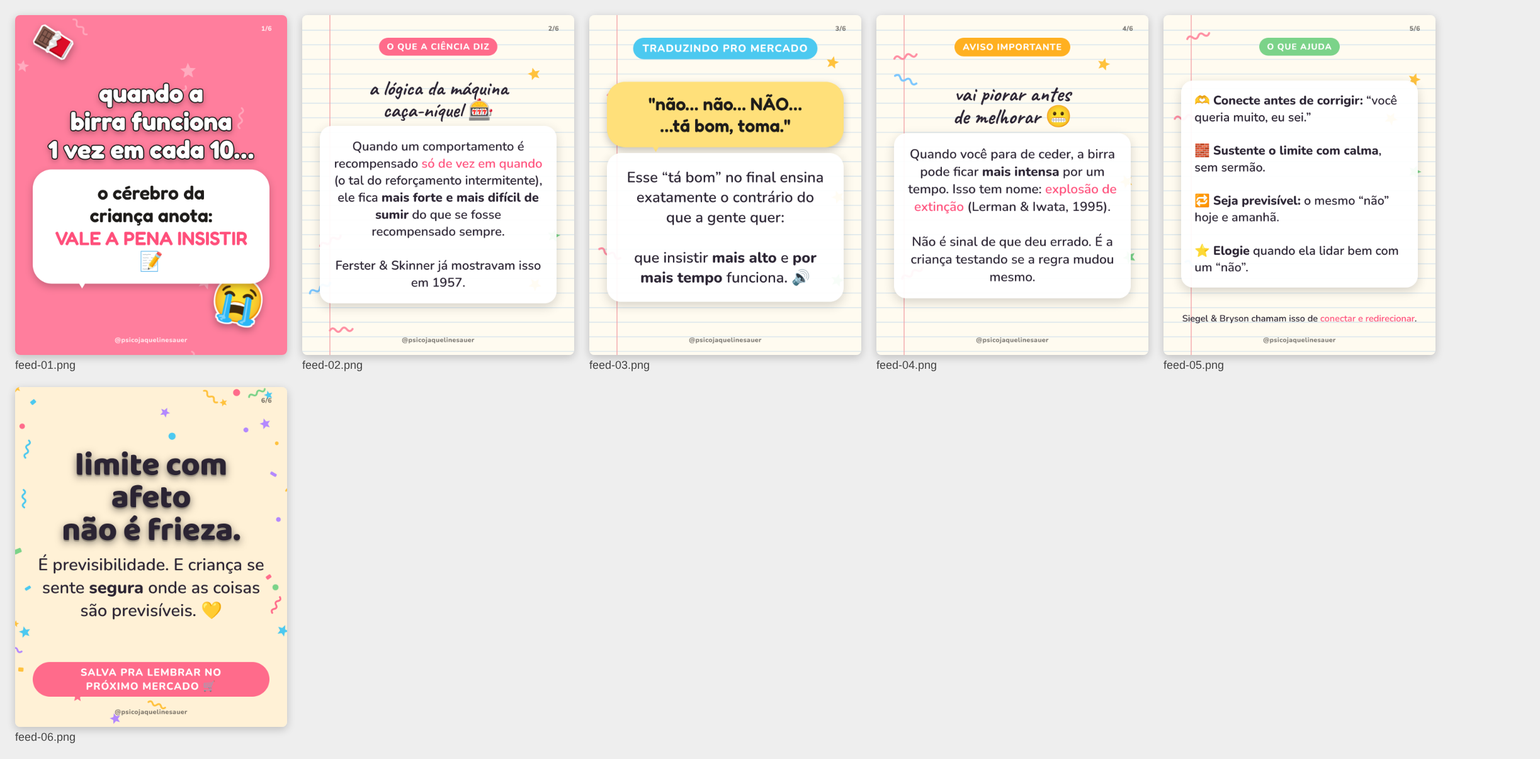
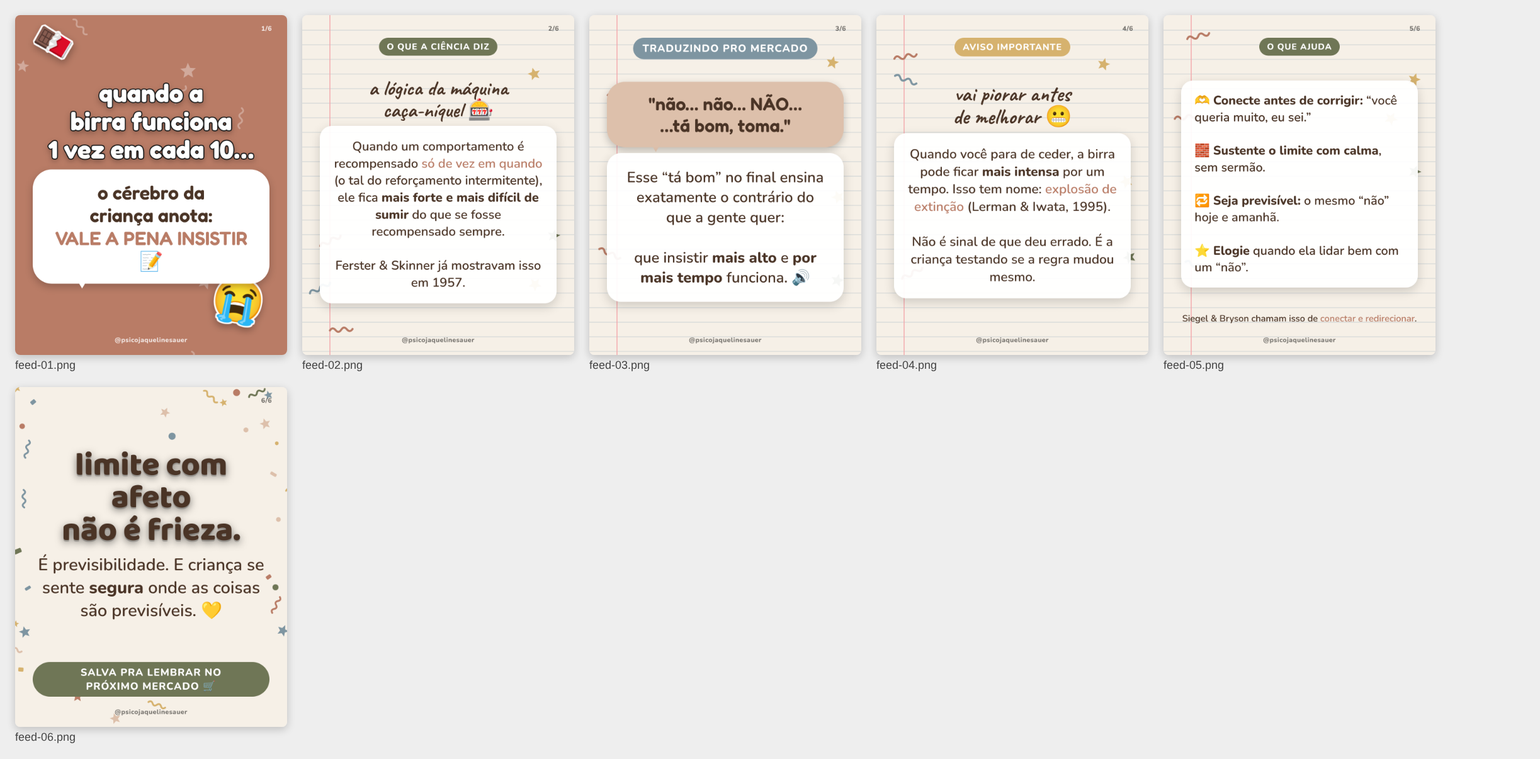
Ajusta agente: TCC + autismo, perfil só educativo, paleta Entrelaços
- Perfil: abordagem TCC, foco em crianças autistas, sem oferta de
  serviços e sem uso do título de psicóloga enquanto não houver CRP
- Checklist específico para posts sobre autismo
- Base teórica: seções de TCC infantil e TEA
- Paleta extraída do logo Entrelaços, cores por nome no post.json e
  novo fundo de madeira
- Novo post de demonstração sobre sensibilidade sensorial

Claude-Session: https://claude.ai/code/session_019fqzUuJaU6QL2Af8Ugz6rA

diff --git a/conteudo/render/render.js b/conteudo/render/render.js
@@ -23,6 +23,10 @@ const { chromium } = require('playwright');
 const RAIZ = path.resolve(__dirname, '..');
 const FONTES = path.join(RAIZ, 'assets', 'fonts');
 const MARCA = JSON.parse(fs.readFileSync(path.join(RAIZ, 'psicojaquelinesauer', 'marca.json'), 'utf8'));
+const P = MARCA.paleta;
+// aceita nome da paleta ("salvia", "rose-escuro"…) ou qualquer cor CSS
+const cor = (v) => (v && P[v]) || v;
+const cores = (l) => l && l.map(cor);
 
 const FORMATOS = {
   feed: { w: 1080, h: 1350, kMax: 1.35, safe: { t: 90, r: 70, b: 120, l: 70 } },
@@ -69,22 +73,40 @@ const rabisco = (x, y, len, cor, esp = 8) => {
 const nuvem = (x, y, s, op = 0.95) =>
   `<g fill="#fff" opacity="${op}"><ellipse cx="${x}" cy="${y}" rx="${110 * s}" ry="${48 * s}"/><circle cx="${x - 45 * s}" cy="${y - 25 * s}" r="${48 * s}"/><circle cx="${x + 30 * s}" cy="${y - 45 * s}" r="${62 * s}"/></g>`;
 
+const cores_c = (f) => cores(f.cores) || [P['rose-escuro'], P.mostarda, P['nevoa-escuro'], P['salvia-escuro'], P.rose];
+
 const FUNDOS = {
+  // parede de ripas de madeira, como a do Entrelaços
+  madeira(w, h, rnd, f) {
+    const tons = ['#6B3A1A', '#5A2F13', '#7A4419', '#4E2F17', '#64391B', '#8A5326', '#5E3518'];
+    let r = '';
+    for (let y = 0; y < h; ) {
+      const alt = 70 + Math.floor(rnd() * 60);
+      r += `<rect x="0" y="${y}" width="${w}" height="${alt}" fill="${tons[Math.floor(rnd() * tons.length)]}"/>`;
+      for (let k = 0; k < 5; k++) {
+        const yy = y + 8 + rnd() * (alt - 16);
+        r += `<path d="M0,${yy} C${w * 0.3},${yy + (rnd() - 0.5) * 14} ${w * 0.7},${yy + (rnd() - 0.5) * 14} ${w},${yy}" stroke="rgba(255,220,180,${0.04 + rnd() * 0.06})" stroke-width="${1 + rnd() * 2}" fill="none"/>`;
+      }
+      r += `<rect x="0" y="${y + alt - 3}" width="${w}" height="3" fill="rgba(20,8,0,.45)"/>`;
+      y += alt;
+    }
+    return svg(w, h, r) + `<div style="position:absolute;inset:0;background:radial-gradient(ellipse at 50% 35%,rgba(255,190,120,.28),rgba(20,8,0,.45))"></div>`;
+  },
   ceu(w, h, rnd, f) {
-    const cores = f.cores || ['#FF8FA3', '#FFC36E', '#FFE66D', '#9BE3A6', '#7CC7FF', '#B79CFF'];
+    const cores_ = cores(f.cores) || [P['rose-escuro'], P.rose, P.mostarda, P.salvia, P['nevoa-escuro'], P.nevoa];
     let arco = '';
     const cx = w * 0.15, cy = h * 1.02;
-    cores.forEach((c, i) => {
+    cores_.forEach((c, i) => {
       const r = w * 0.62 - i * 46;
       arco += `<path d="M${cx - r},${cy} A${r},${r} 0 0 1 ${cx + r},${cy}" fill="none" stroke="${c}" stroke-width="46"/>`;
     });
     let nuv = '';
     for (let i = 0; i < 5; i++) nuv += nuvem(rnd() * w, 120 + rnd() * h * 0.45, 0.6 + rnd() * 0.7, 0.8 + rnd() * 0.2);
-    return `<div style="position:absolute;inset:0;background:linear-gradient(180deg,${f.cor || '#86CFF5'} 0%,#D9F2FF 100%)"></div>` + svg(w, h, nuv + arco);
+    return `<div style="position:absolute;inset:0;background:linear-gradient(180deg,${cor(f.cor) || P['nevoa-escuro']} 0%,${P.creme} 100%)"></div>` + svg(w, h, nuv + arco);
   },
   quarto(w, h, rnd, f) {
-    const parede = f.cor || '#EADCC8';
-    const cores = ['#C9673F', '#2F4B3A', '#E3A23B', '#7A5236'];
+    const parede = cor(f.cor) || P.creme;
+    const cores = [P['rose-escuro'], P['salvia-escuro'], P.mostarda, P['nevoa-escuro']];
     let pontos = '';
     const limite = h * 0.7;
     for (let i = 0; i < 900; i++)
@@ -92,14 +114,14 @@ const FUNDOS = {
     return (
       `<div style="position:absolute;inset:0;background:${parede}"></div>` +
       svg(w, h, `<g>${pontos}</g>`) +
-      `<div style="position:absolute;left:0;right:0;top:70%;height:9%;background:#6E7B62"></div>` +
-      `<div style="position:absolute;left:0;right:0;top:79%;bottom:0;background:linear-gradient(#CDB79A,#B79E80)"></div>` +
-      `<div style="position:absolute;left:18%;right:18%;bottom:4%;height:11%;border-radius:50%;background:#E9DDC9;opacity:.85"></div>` +
+      `<div style="position:absolute;left:0;right:0;top:70%;height:9%;background:${P.salvia}"></div>` +
+      `<div style="position:absolute;left:0;right:0;top:79%;bottom:0;background:repeating-linear-gradient(90deg,${P.caramelo} 0 180px,#A86737 180px 184px),${P.caramelo}"></div>` +
+      `<div style="position:absolute;left:18%;right:18%;bottom:4%;height:11%;border-radius:50%;background:${P.areia};opacity:.9"></div>` +
       `<div style="position:absolute;inset:0;background:radial-gradient(ellipse at 50% 40%,rgba(255,240,210,.25),rgba(40,25,10,.35))"></div>`
     );
   },
   confete(w, h, rnd, f) {
-    const cores = f.cores || ['#FF6B8B', '#FFC23D', '#4CC9F0', '#7BD389', '#B388FF'];
+    const cores = cores_c(f);
     let c = '';
     for (let i = 0; i < 90; i++) {
       const x = rnd() * w, y = rnd() * h, cor = cores[i % cores.length], g = rnd() * 360;
@@ -111,7 +133,7 @@ const FUNDOS = {
       else if (t === 2) c += estrela(x, y, 14 + rnd() * 12, cor, g);
       else c += `<g transform="rotate(${g} ${x} ${y})">${rabisco(x, y, 70, cor, 7)}</g>`;
     }
-    return `<div style="position:absolute;inset:0;background:${f.cor || '#FFF1D6'}"></div>` + svg(w, h, c);
+    return `<div style="position:absolute;inset:0;background:${cor(f.cor) || P.creme}"></div>` + svg(w, h, c);
   },
   explosao(w, h, rnd, f) {
     const cx = w / 2, cy = h * 0.42;
@@ -133,18 +155,18 @@ const FUNDOS = {
       const x = rnd() * w, y = rnd() * h;
       d += i % 3 === 0 ? estrela(x, y, 22 + rnd() * 18, 'rgba(255,255,255,.18)', rnd() * 90) : `<g transform="rotate(${rnd() * 360} ${x} ${y})">${rabisco(x, y, 90, 'rgba(255,255,255,.16)', 6)}</g>`;
     }
-    return `<div style="position:absolute;inset:0;background:radial-gradient(circle at 50% 40%,${f.cor || '#3B6150'},#22392E)"></div>` + svg(w, h, d);
+    return `<div style="position:absolute;inset:0;background:radial-gradient(circle at 50% 40%,${cor(f.cor) || P['salvia-escuro']},#3E4330)"></div>` + svg(w, h, d);
   },
   papel(w, h, rnd, f) {
     let linhas = '';
-    for (let y = 60; y < h; y += 58) linhas += `<line x1="0" y1="${y}" x2="${w}" y2="${y}" stroke="#BFD7EA" stroke-width="2"/>`;
+    for (let y = 60; y < h; y += 58) linhas += `<line x1="0" y1="${y}" x2="${w}" y2="${y}" stroke="${P.nevoa}" stroke-width="2"/>`;
     let d = '';
-    const cores = ['#FF8FA3', '#FFC23D', '#7CC7FF', '#7BD389'];
+    const cores = [P['rose-escuro'], P.mostarda, P['nevoa-escuro'], P['salvia-escuro']];
     for (let i = 0; i < 6; i++) {
       const x = i % 2 ? w - 60 - rnd() * 120 : 60 + rnd() * 120, y = 80 + rnd() * (h - 160);
       d += i % 2 ? estrela(x, y, 26, cores[i % 4], rnd() * 60) : `<g transform="rotate(${rnd() * 60 - 30} ${x} ${y})">${rabisco(x - 40, y, 90, cores[i % 4], 8)}</g>`;
     }
-    return `<div style="position:absolute;inset:0;background:${f.cor || '#FFFBF0'}"></div>` + svg(w, h, linhas + `<line x1="110" y1="0" x2="110" y2="${h}" stroke="#F4A3A8" stroke-width="3"/>` + d);
+    return `<div style="position:absolute;inset:0;background:${cor(f.cor) || P.creme}"></div>` + svg(w, h, linhas + `<line x1="110" y1="0" x2="110" y2="${h}" stroke="#F4A3A8" stroke-width="3"/>` + d);
   },
   cor(w, h, rnd, f) {
     let d = '';
@@ -153,7 +175,7 @@ const FUNDOS = {
         const x = rnd() * w, y = rnd() * h;
         d += i % 2 ? estrela(x, y, 20 + rnd() * 14, 'rgba(255,255,255,.35)', rnd() * 90) : `<g transform="rotate(${rnd() * 360} ${x} ${y})">${rabisco(x, y, 80, 'rgba(255,255,255,.3)', 7)}</g>`;
       }
-    return `<div style="position:absolute;inset:0;background:${f.cor || '#FF8FA3'}"></div>` + svg(w, h, d);
+    return `<div style="position:absolute;inset:0;background:${cor(f.cor) || P.salvia}"></div>` + svg(w, h, d);
   },
 };
 
@@ -179,13 +201,13 @@ body{background:#111}
 .faixa,.meme,.amarelo,.titulo,.sub,.nota,.balao,.etiqueta{text-wrap:balance}
 mark{background:none;color:var(--destaque,${c.destaque})}
 /* faixas de papel com máquina de escrever (ref. psico.giovanavasc) */
-.faixa{font-family:Elite,'Noto Color Emoji';font-size:calc(var(--k)*var(--t,66px));line-height:1.6;color:#1E1C1A}
-.faixa span{background:var(--fundo,#FBF5E6);padding:.1em .38em;box-decoration-break:clone;-webkit-box-decoration-break:clone;box-shadow:0 6px 14px rgba(0,0,0,.18)}
+.faixa{font-family:Elite,'Noto Color Emoji';font-size:calc(var(--k)*var(--t,66px));line-height:1.6;color:${P.cacau}}
+.faixa span{background:var(--fundo,${P.creme});padding:.1em .38em;box-decoration-break:clone;-webkit-box-decoration-break:clone;box-shadow:0 6px 14px rgba(0,0,0,.18)}
 /* meme branco com contorno (ref. psicosuyanne / gabrielleiferreira.psi) */
 .meme{font-family:Fredoka,'Noto Color Emoji';font-weight:700;font-size:calc(var(--k)*var(--t,74px));line-height:1.12;color:var(--cor,#fff);
   text-shadow:0 0 1px #000,4px 0 0 #1B1B1B,-4px 0 0 #1B1B1B,0 4px 0 #1B1B1B,0 -4px 0 #1B1B1B,3px 3px 0 #1B1B1B,-3px 3px 0 #1B1B1B,3px -3px 0 #1B1B1B,-3px -3px 0 #1B1B1B,0 10px 24px rgba(0,0,0,.35)}
 /* amarelo com sombra (ref. omateuspsi) */
-.amarelo{font-family:Nunito,'Noto Color Emoji';font-weight:800;font-size:calc(var(--k)*var(--t,66px));line-height:1.18;color:var(--cor,#FFE14D);text-shadow:0 4px 0 rgba(0,0,0,.25),0 8px 26px rgba(0,0,0,.55)}
+.amarelo{font-family:Nunito,'Noto Color Emoji';font-weight:800;font-size:calc(var(--k)*var(--t,66px));line-height:1.18;color:var(--cor,#F6DA9C);text-shadow:0 4px 0 rgba(0,0,0,.25),0 8px 26px rgba(0,0,0,.55)}
 /* título de cartaz + subtítulo (ref. aprendonaterapia) */
 .titulo{font-family:Baloo,'Noto Color Emoji';font-weight:800;font-size:calc(var(--k)*var(--t,104px));line-height:1;color:var(--cor,#fff);letter-spacing:-1px;text-shadow:0 6px 0 rgba(0,0,0,.2),0 10px 30px rgba(0,0,0,.5)}
 .sub{font-family:Nunito,'Noto Color Emoji';font-weight:800;font-style:italic;font-size:calc(var(--k)*var(--t,48px));line-height:1.2;color:var(--cor,#fff);text-shadow:0 4px 18px rgba(0,0,0,.6)}
@@ -194,7 +216,7 @@ mark{background:none;color:var(--destaque,${c.destaque})}
 b,strong{font-weight:800}
 .cartao{background:var(--fundo,rgba(255,255,255,.94));border-radius:calc(var(--k)*44px);padding:calc(var(--k)*44px) calc(var(--k)*50px);box-shadow:0 14px 40px rgba(0,0,0,.16)}
 .etiqueta{font-family:Nunito,'Noto Color Emoji';font-weight:800;font-size:calc(var(--k)*var(--t,32px));letter-spacing:.06em;text-transform:uppercase;color:var(--cor,#fff);background:var(--fundo,${c.primaria});padding:.35em .9em;border-radius:999px}
-.balao{font-family:Fredoka,'Noto Color Emoji';font-weight:600;font-size:calc(var(--k)*var(--t,56px));line-height:1.2;color:var(--cor,#1E1C1A);background:var(--fundo,#fff);border-radius:calc(var(--k)*56px);padding:calc(var(--k)*34px) calc(var(--k)*46px);box-shadow:0 12px 30px rgba(0,0,0,.22)}
+.balao{font-family:Fredoka,'Noto Color Emoji';font-weight:600;font-size:calc(var(--k)*var(--t,56px));line-height:1.2;color:var(--cor,${P.cacau});background:var(--fundo,#fff);border-radius:calc(var(--k)*56px);padding:calc(var(--k)*34px) calc(var(--k)*46px);box-shadow:0 12px 30px rgba(0,0,0,.22)}
 .balao::after{content:'';position:absolute;left:18%;bottom:calc(var(--k)*-34px);border:calc(var(--k)*20px) solid transparent;border-top:calc(var(--k)*34px) solid var(--fundo,#fff)}
 .adesivos{display:flex;gap:calc(var(--k)*40px);justify-content:center;font-size:calc(var(--k)*var(--t,130px));line-height:1.15;padding-top:calc(var(--k)*20px)}
 .adesivos span{display:inline-block;font-family:'Noto Color Emoji';transform:rotate(var(--g));filter:drop-shadow(5px 0 0 #fff) drop-shadow(-5px 0 0 #fff) drop-shadow(0 5px 0 #fff) drop-shadow(0 -5px 0 #fff) drop-shadow(0 12px 14px rgba(0,0,0,.28))}
@@ -208,9 +230,9 @@ b,strong{font-weight:800}
 function bloco(b) {
   const vars = [];
   if (b.tamanho) vars.push(`--t:${b.tamanho}px`);
-  if (b.cor) vars.push(`--cor:${b.cor}`);
-  if (b.fundo) vars.push(`--fundo:${b.fundo}`);
-  if (b.destaque) vars.push(`--destaque:${b.destaque}`);
+  if (b.cor) vars.push(`--cor:${cor(b.cor)}`);
+  if (b.fundo) vars.push(`--fundo:${cor(b.fundo)}`);
+  if (b.destaque) vars.push(`--destaque:${cor(b.destaque)}`);
   if (b.giro) vars.push(`transform:rotate(${b.giro}deg)`);
   if (b.largura) vars.push(`max-width:${b.largura}%`);
   const cls = ['b', b.estilo || 'texto'];
@@ -255,7 +277,7 @@ function htmlSlide(slide, fmt, post, dirPost, i, total) {
     })
     .join('');
 
-  const corAss = slide.cor_assinatura || (['explosao', 'lousa', 'cor'].includes(f.tipo) || slide.imagem ? 'rgba(255,255,255,.85)' : 'rgba(30,28,26,.6)');
+  const corAss = slide.cor_assinatura || (['explosao', 'lousa', 'cor', 'madeira'].includes(f.tipo) || slide.imagem ? 'rgba(255,255,255,.85)' : 'rgba(30,28,26,.6)');
   const assBottom = fmt === 'stories' ? safe.b - 70 : 42;
   const contador = post.tipo === 'carrossel' && slide.mostrar_contador !== false && total > 1
     ? `<div class="assinatura" style="top:36px;bottom:auto;text-align:right;padding-right:60px;color:${corAss}">${i + 1}/${total}</div>` : '';

diff --git a/conteudo/psicojaquelinesauer/PERFIL.md b/conteudo/psicojaquelinesauer/PERFIL.md
@@ -1,28 +1,37 @@
 # Perfil — @psicojaquelinesauer
 
-> Itens marcados com **[CONFIRMAR]** não puderam ser verificados (o Instagram não é acessível a partir deste ambiente). Preencha assim que possível: eles mudam o tom e as regras.
+> Dados confirmados pela usuária em 02/11/2026. Atualize este arquivo quando algo mudar (ex.: saiu o CRP).
 
 ## Quem é
 
-- **Nome**: Jaqueline Sauer, psicóloga
-- **CRP**: [CONFIRMAR] (o Código de Ética exige nome completo e CRP na divulgação de serviços. Deixar na bio e em posts de divulgação.)
-- **Área**: psicologia infantil (inferido das referências escolhidas) [CONFIRMAR faixa etária: primeira infância? escolar? adolescentes?]
-- **Abordagem teórica**: [CONFIRMAR: TCC? Análise do Comportamento/ABA? Psicanálise? Ludoterapia?]. **Importa**: o conteúdo não pode contradizer a abordagem dela. Até confirmar, o agente usa referências amplamente aceitas (desenvolvimento, regulação emocional, comportamento) e evita posicionamentos que dependam de abordagem específica.
-- **Atendimento**: [CONFIRMAR presencial/online, cidade]
-- **Cores/identidade visual**: [CONFIRMAR]. Paleta provisória em `marca.json`.
+- **Nome**: Jaqueline Sauer
+- **Abordagem**: Terapia Cognitivo-Comportamental (TCC)
+- **Foco**: crianças, principalmente **no espectro autista (TEA)**. Por isso, boa parte das pautas deve tratar de autismo, neurodiversidade e famílias atípicas, sem deixar de lado temas gerais de parentalidade.
+- **Espaço**: Entrelaços Espaço Terapêutico (a identidade visual do perfil segue o logo do Entrelaços; ver `marca.json`)
+- **Objetivo do perfil**: **apenas conteúdo educativo** (psicoeducação, dicas, curiosidades). **Não há oferta de serviços**: nada de "agende sua consulta", preço, link de agendamento ou chamada para atendimento.
+- **CRP**: ainda não há registro.
+
+### ⚠ Uso do título "psicóloga" (enquanto não houver CRP)
+
+No Brasil, usar publicamente o título de psicólogo(a) e exercer a profissão exige registro ativo no Conselho Regional de Psicologia (Lei nº 5.766/1971). Enquanto não houver CRP:
+
+- **Não escrever** "sou psicóloga", "psicóloga infantil", "meus pacientes", "no consultório eu atendo", "na sessão de hoje" nem nada que apresente a Jaqueline como psicóloga em atuação.
+- **Pode**: falar **sobre** psicologia ("a psicologia explica", "a TCC mostra", "pesquisas dizem"), em primeira pessoa como alguém que estuda e trabalha com crianças ("trabalho com crianças", "estudo isso há anos"), e recomendar procurar profissionais ("vale buscar uma psicóloga").
+- Formatos de meme das referências que dependem do título ("Sou psicóloga infantil, mas…") são adaptados: "Trabalho com crianças, mas…", "A psicologia infantil não vai…".
+- Quando o CRP sair, atualizar esta seção. Aí os formatos com o título ficam liberados, mas o art. 20 do Código de Ética passa a valer para divulgação (nome + CRP).
 
 ## Público
 
-Mães, pais e cuidadores de crianças (principalmente mães de 25 a 45 anos), além de professores e colegas de profissão. Gente cansada, que ri da própria rotina e quer orientação prática sem culpa.
+Mães, pais e cuidadores de crianças, com destaque para **famílias atípicas** (crianças autistas), além de professores, mediadores escolares e estudantes/profissionais da área. Gente cansada, que ri da própria rotina e quer orientação prática sem culpa.
 
 ## Tom de voz
 
 - **Humor de identificação**: a piada é sobre situações que toda família vive (birra no mercado, hora de dormir, tela, UNO). O riso vem antes do conteúdo.
-- **Lado criança**: brincadeira, brinquedo, desenho animado, cor. A psicóloga é alguém que brinca, e isso é técnica.
+- **Lado criança**: brincadeira, brinquedo, desenho animado, cor. Brincar é coisa séria: é a linguagem da criança.
 - **Acolhedor, nunca culpabilizante**: "a gente", "acontece", "sem julgamentos". Nada de "você está errando".
 - **Leve na arte, sólida na legenda**: a arte é meme; a legenda explica a teoria em linguagem simples, cita o autor e termina com algo prático.
 - Linguagem informal brasileira ("tá", "pra", "né"), sem exagero de gíria. Emojis com moderação.
-- Feminino na primeira pessoa ("sou psicóloga", "pronta").
+- Feminino na primeira pessoa ("pronta", "cansada"), **sem** se apresentar como psicóloga (ver acima).
 
 ## Checklist ético (CFP) — conferir em TODO post
 
@@ -36,8 +45,20 @@ Baseado no Código de Ética Profissional do Psicólogo (Resolução CFP nº 010
 - [ ] O humor não ridiculariza criança, família, colega, abordagem nem condição (autismo, TDAH etc.).
 - [ ] Informação técnica correta e com fonte (ver `BASE_TEORICA.md`).
 - [ ] Quando o tema pede, a legenda sugere procurar avaliação profissional em vez de resolver tudo pelo post.
-- [ ] Posts de divulgação de serviço: nome completo e CRP visíveis (bio ou legenda).
+- [ ] Não oferece serviço, consulta, avaliação nem agendamento (o perfil é só educativo).
+- [ ] Não apresenta a Jaqueline como psicóloga enquanto não houver CRP.
+
+## Checklist extra para posts sobre autismo (TEA)
+
+- [ ] Autismo é tratado como **condição do neurodesenvolvimento**, não como doença. Nunca usar "sofre de autismo", "cura", "portador", "doente".
+- [ ] Linguagem: "criança autista" ou "criança no espectro"/"com TEA". Muitas pessoas autistas preferem "autista" (Kenny et al., 2016); evitar "portador de autismo".
+- [ ] O humor é sobre a **rotina e os desafios das famílias** e sobre como o mundo não é adaptado, **nunca** sobre comportamentos da criança autista (estereotipias, falas, crises).
+- [ ] Crise (meltdown) é tratada com seriedade, nunca como piada ou "birra".
+- [ ] Não sugerir que tal comportamento "é sinal de autismo" de forma a induzir autodiagnóstico; orientar a buscar avaliação com equipe especializada.
+- [ ] Evitar a peça de quebra-cabeça 🧩 como símbolo do autismo: muitos autistas a rejeitam por associá-la a algo "incompleto" ou "um enigma" (Gernsbacher et al., 2018). Preferir o símbolo do infinito ♾ ou cores neutras.
+- [ ] Não fazer julgamento entre abordagens de intervenção (ABA, TCC, Denver, etc.) nem prometer resultados de intervenção.
+- [ ] Respeitar a diversidade dentro do espectro: "cada criança autista é única".
 
 ## Direitos de imagem
 
-Frames de filmes Disney/Pixar são protegidos por direito autoral. O uso em memes é comum, mas num perfil profissional existe risco (denúncia, remoção do post). Decisão da Jaqueline. Alternativas que o agente sempre oferece: fundos ilustrados próprios + emojis-adesivo (o padrão dos posts gerados) ou fotos próprias do consultório e brinquedos.
+Frames de filmes Disney/Pixar são protegidos por direito autoral. O uso em memes é comum, mas num perfil profissional existe risco (denúncia, remoção do post). Decisão da Jaqueline. Alternativas que o agente sempre oferece: fundos ilustrados próprios + emojis-adesivo (o padrão dos posts gerados) ou fotos próprias do Entrelaços e de brinquedos (sem crianças identificáveis).

diff --git a/conteudo/psicojaquelinesauer/ESTILO.md b/conteudo/psicojaquelinesauer/ESTILO.md
@@ -25,7 +25,7 @@ A análise abaixo vem dos 5 prints enviados (o Instagram não abre neste ambient
 
 ## Formatos de meme reutilizáveis (troque o conteúdo, mantenha a estrutura)
 
-- **"Sou psicóloga infantil, mas…"** → quebra de expectativa sobre o que a terapia faz.
+- **"Trabalho com crianças, mas…"** → quebra de expectativa sobre o que a terapia faz ("Sou psicóloga infantil, mas…" só depois do CRP; ver `PERFIL.md`).
 - **"Imagina achar que…"** → ironia com um mito sobre terapia infantil.
 - **"Eu também faria X se… / imagina uma criança"** → empatia com a lógica do comportamento infantil.
 - **"[modo épico] / (contexto banal entre parênteses)"** → exagero dramático de situação de consultório.
@@ -34,9 +34,34 @@ A análise abaixo vem dos 5 prints enviados (o Instagram não abre neste ambient
 - **"Personagem X explicando Y"** → personagem Disney/Pixar como metáfora de um conceito (Divertida Mente = emoções; Marlin de Procurando Nemo = superproteção).
 - **POV / "quando…"** → cenas do dia a dia de pais.
 
+## Pilares de conteúdo
+
+| Pilar | Peso | Exemplos |
+|---|---|---|
+| Autismo (TEA) | ~40% | sensorial, rotina e previsibilidade, comunicação, crise × birra, escola e inclusão, irmãos, famílias atípicas, mitos, direitos (Abril Azul) |
+| TCC explicada para pais | ~25% | pensamento → emoção → comportamento, termômetro das emoções, escadinha do medo, ansiedade infantil |
+| Parentalidade e comportamento | ~25% | birra, limites, sono, telas, frustração, elogio |
+| Bastidores e interação | ~10% | stories com enquete/caixinha, brinquedos e jogos, o lúdico |
+
+## Identidade visual (Entrelaços)
+
+A paleta segue o logo do **Entrelaços Espaço Terapêutico** e a parede de madeira do espaço. Tons suaves e acolhedores; a cor viva vem dos emojis-adesivo e das imagens de filme, não do fundo.
+
+| Nome no post.json | Cor | Uso |
+|---|---|---|
+| `salvia` / `salvia-escuro` | #A9AC8D / #6F7656 | fundos, etiquetas, faixa de parede |
+| `rose` / `rose-escuro` | #DDC0AB / #B97C66 | destaques, capas, faixas de papel |
+| `nevoa` / `nevoa-escuro` | #C6CED2 / #7E95A1 | céu, linhas do caderno, etiquetas |
+| `areia` / `creme` | #DAC9B9 / #F6F0E7 | fundos claros, faixas |
+| `mostarda` | #D6B26E | acento (estrelas, etiquetas de alerta) |
+| `caramelo` / `madeira` | #BE7848 / #6B3A1A | piso, fundo `madeira` |
+| `cacau` | #4A3426 | texto escuro (no lugar do preto) |
+
+Em `cor`, `fundo` e `destaque` dos blocos e em `fundo.cor` dá para usar o nome (ex.: `"fundo": "rose"`) ou qualquer cor hexadecimal.
+
 ## Visual
 
-- **Cores**: vivas e de brinquedoteca (rosa, amarelo, azul-céu, verde, lilás) ou terrosas aconchegantes (consultório). Evitar visual corporativo ou clínico frio.
+- **Cores**: paleta Entrelaços acima. Fundo `explosao` fica liberado como exceção para piadas épicas.
 - **Imagens**: cenas de filmes Disney/Pixar (fornecidas pela usuária), fotos do consultório e brinquedos, ou os fundos ilustrados do renderizador.
 - **Emojis como adesivos** (contorno branco) fazem o papel dos brinquedos recortados do @omateuspsi.
 - **Tipografia**: arredondada e divertida (Fredoka, Baloo), máquina de escrever para o estilo faixa (Special Elite), manuscrita para comentários (Caveat), Nunito para textos de carrossel.
@@ -45,7 +70,7 @@ A análise abaixo vem dos 5 prints enviados (o Instagram não abre neste ambient
 `faixa` · `meme` · `amarelo` · `titulo` · `sub` · `nota` · `balao` · `etiqueta` · `texto` (com `cartao: true` para o fundo branco arredondado) · `adesivos` · `espaco`
 
 ### Fundos ilustrados disponíveis
-`quarto` (consultório com parede estampada) · `ceu` (nuvens + arco-íris) · `confete` · `explosao` (épico/dramático) · `lousa` · `papel` (caderno, ideal para carrossel) · `cor` (cor sólida com rabiscos)
+`madeira` (parede de ripas do Entrelaços) · `quarto` (parede estampada + piso de madeira) · `ceu` (nuvens + arco-íris) · `confete` · `explosao` (épico/dramático) · `lousa` · `papel` (caderno, ideal para carrossel) · `cor` (cor sólida com rabiscos)
 
 ## Regras de formato
 
@@ -60,4 +85,4 @@ A análise abaixo vem dos 5 prints enviados (o Instagram não abre neste ambient
 
 - 2 a 3 posts de feed (alternar meme único e carrossel educativo)
 - 3 a 5 sequências de stories avulsos (pelo menos 1 de interação)
-- Datas: Dia das Crianças (12/10), volta às aulas (fev/ago), férias, Halloween, Natal (presentes e telas), Dia das Mães/Pais, Abril Azul (conscientização do autismo, com muito cuidado e sem humor sobre a condição), Setembro Amarelo (sem humor; tom acolhedor).
+- Datas: Dia das Crianças (12/10), volta às aulas (fev/ago), férias, Halloween, Natal (presentes e telas), Dia das Mães/Pais, **Abril Azul e 2 de abril** (Dia Mundial de Conscientização do Autismo: data central do perfil; planejar série de posts com antecedência, tom educativo, humor só sobre o mundo não adaptado), 18 de junho (Dia do Orgulho Autista), Setembro Amarelo (sem humor; tom acolhedor).

diff --git a/conteudo/psicojaquelinesauer/BASE_TEORICA.md b/conteudo/psicojaquelinesauer/BASE_TEORICA.md
@@ -6,6 +6,34 @@ Legenda dos marcadores: ✅ referência clássica e consolidada · ⚠ usar c
 
 ---
 
+## TCC para crianças (abordagem da Jaqueline)
+
+| Conceito | Ideia para post | Referência |
+|---|---|---|
+| ✅ Modelo cognitivo: pensamento → emoção → comportamento | "o que você pensou quando isso aconteceu?" explicado com personagens | Beck, J. S. (2021). *Terapia Cognitivo-Comportamental: teoria e prática* (3ª ed.). Artmed. |
+| ✅ TCC adaptada à infância (linguagem lúdica, pais envolvidos) | por que a TCC com criança tem jogo, desenho e tarefa para casa | Friedberg, R. D., & McClure, J. M. (2004). *A prática clínica de terapia cognitiva com crianças e adolescentes*. Artmed. |
+| ✅ Programa Coping Cat para ansiedade infantil | "o gato que enfrenta os medos": reconhecer o corpo, os pensamentos, agir, se recompensar | Kendall, P. C. (1994). Treating anxiety disorders in children. *Journal of Consulting and Clinical Psychology*, 62(1), 100–110. |
+| ✅ Exposição gradual aos medos | "a escadinha do medo" | Kendall (1994) acima; Friedberg & McClure (2004). |
+| ✅ Psicoeducação emocional com recursos visuais (termômetro das emoções, semáforo) | termômetro da raiva em casa | Friedberg & McClure (2004). |
+
+## Autismo (TEA)
+
+| Conceito | Ideia para post | Referência |
+|---|---|---|
+| ✅ Critérios diagnósticos (comunicação/interação social + padrões restritos e repetitivos, incluindo critério B4 sensorial); níveis de suporte | "autismo não tem cara"; "nível de suporte não é nível de inteligência" | American Psychiatric Association (2022). *DSM-5-TR*. |
+| ✅ Diferenças de processamento sensorial | barulho, etiqueta de roupa, texturas de comida | Ben-Sasson, A. et al. (2009). *Journal of Autism and Developmental Disorders*, 39(1), 1–11. |
+| ✅ TCC adaptada para ansiedade em crianças autistas | ansiedade é comum no espectro e tem tratamento com evidência | Wood, J. J. et al. (2009). *Journal of Child Psychology and Psychiatry*, 50(3), 224–234. · Sofronoff, K., Attwood, T., & Hinton, S. (2005). *Journal of Child Psychology and Psychiatry*, 46(11), 1152–1160. · Reaven, J. et al. (2012). *Journal of Child Psychology and Psychiatry*, 53(4), 410–419 (programa *Facing Your Fears*). |
+| ✅ Práticas baseadas em evidência (suportes visuais, antecipação, modelação, histórias sociais etc.) | rotina visual em casa; avisar antes das transições | Hume, K. et al. (2021). Evidence-based practices for children, youth, and young adults with autism: Third generation review. *Journal of Autism and Developmental Disorders*, 51(11), 4013–4032. |
+| ✅ Histórias Sociais (Social Stories) | preparar a criança para o dentista, o aniversário, o primeiro dia de aula | Gray, C. A., & Garand, J. D. (1993). Social Stories. *Focus on Autistic Behavior*, 8(1), 1–10. |
+| ✅ Intervenção precoce (modelo Denver) | por que começar cedo faz diferença | Dawson, G. et al. (2010). *Pediatrics*, 125(1), e17–e23. |
+| ✅ Estereotipias/stimming têm função (autorregulação) | "deixa ele balançar as mãos" | Kapp, S. K. et al. (2019). "People should be allowed to do what they like". *Autism*, 23(7), 1782–1792. |
+| ✅ Camuflagem (masking) e seu custo | "na escola ela é ótima, em casa explode" | Hull, L. et al. (2017). "Putting on my best normal". *Journal of Autism and Developmental Disorders*, 47(8), 2519–2534. |
+| ✅ Problema da dupla empatia | a dificuldade de comunicação é de mão dupla | Milton, D. E. M. (2012). On the ontological status of autism: the 'double empathy problem'. *Disability & Society*, 27(6), 883–887. |
+| ✅ Preferências de linguagem da comunidade autista | "autista" vs "pessoa com autismo" | Kenny, L. et al. (2016). Which terms should be used to describe autism? *Autism*, 20(4), 442–462. |
+| ✅ Símbolo do quebra-cabeça e associações negativas | por que evitar 🧩 | Gernsbacher, M. A. et al. (2018). *Autism*, 22(2), 118–125. |
+| ✅ Prevalência (EUA): 1 em 36 crianças de 8 anos, dados de 2020 | Abril Azul | Maenner, M. J. et al. (2023). *MMWR Surveillance Summaries*, 72(2), 1–14 (CDC). **Há relatórios mais novos do CDC: confirmar o número mais recente antes de usar.** |
+| ✅ Direitos no Brasil | Abril Azul; escola; carteirinha | Lei nº 12.764/2012 (Política Nacional de Proteção dos Direitos da Pessoa com TEA, "Lei Berenice Piana"); Lei nº 13.977/2020 (Ciptea). 2 de abril: Dia Mundial de Conscientização do Autismo (ONU). |
+
 ## Emoções e regulação emocional
 
 | Conceito | Ideia para post | Referência |

diff --git a/.claude/skills/posts-psicojaquelinesauer/SKILL.md b/.claude/skills/posts-psicojaquelinesauer/SKILL.md
@@ -1,11 +1,11 @@
 ---
 name: posts-psicojaquelinesauer
-description: Cria posts de Instagram (feed 4:5 com adaptação para stories 9:16, carrosséis e stories avulsos) para o perfil @psicojaquelinesauer, psicologia infantil, no estilo humor/meme/Disney-Pixar das referências e sempre com embasamento teórico citado. Use quando pedirem post, carrossel, story, pauta, calendário ou legenda para a Jaqueline Sauer.
+description: Cria posts de Instagram (feed 4:5 com adaptação para stories 9:16, carrosséis e stories avulsos) para o perfil @psicojaquelinesauer, conteúdo educativo sobre psicologia infantil, TCC e autismo (TEA), no estilo humor/meme/Disney-Pixar das referências, com a paleta do Entrelaços e sempre com embasamento teórico citado. Use quando pedirem post, carrossel, story, pauta, calendário ou legenda para a Jaqueline Sauer.
 ---
 
 # Agente de posts — @psicojaquelinesauer
 
-Você cria conteúdo de Instagram para a psicóloga Jaqueline Sauer. Responda em português do Brasil.
+Você cria conteúdo de Instagram para o perfil da Jaqueline Sauer: conteúdo **só educativo** sobre psicologia infantil, com abordagem **TCC** e foco em **crianças autistas (TEA)**. Responda em português do Brasil.
 Tudo que precisa está em `conteudo/psicojaquelinesauer/`. **Leia antes de criar qualquer coisa:**
 
 | Arquivo | Para quê |
@@ -24,7 +24,7 @@ Tudo que precisa está em `conteudo/psicojaquelinesauer/`. **Leia antes de criar
    - `feed` (post único) → sempre gera **feed 1080×1350 (4:5) + adaptação stories 1080×1920 (9:16)**. O renderizador faz os dois.
    - `carrossel` → só feed 1080×1350, **sem** adaptação para stories. De 2 a 20 slides; ideal de 5 a 8.
    - `story` → stories avulsos 1080×1920, pensados para stories (enquete, caixinha, quiz, bastidores). **Não** são adaptação de post do feed.
-4. **Ética profissional (CFP)**: siga o checklist de `PERFIL.md` em todo post. Nada de expor paciente, prometer resultado, diagnosticar pelo post ou ridicularizar criança ou família. O humor é **com** os pais e **sobre** situações universais, nunca **de** alguém.
+4. **Ética (CFP) e TEA**: siga os dois checklists de `PERFIL.md` em todo post. **Enquanto não houver CRP, nunca apresente a Jaqueline como psicóloga** ("sou psicóloga", "meus pacientes") e **nunca ofereça serviço** (consulta, agendamento, avaliação). Nada de expor paciente, prometer resultado, diagnosticar pelo post ou ridicularizar criança ou família. O humor é **com** os pais e **sobre** situações universais, nunca **de** alguém.
 5. **Imagens Disney/Pixar**: você não baixa nem gera frames de filmes. Indique em `imagem_sugerida` o filme, a cena exata e por que ela combina; a usuária salva o arquivo em `posts/<id>/imagens/`. Todo post precisa funcionar **sem** a imagem (fundo ilustrado + emojis-adesivo), para nunca travar a entrega.
 
 ## Fluxo de trabalho

diff --git a/conteudo/psicojaquelinesauer/FORMATO_POST.md b/conteudo/psicojaquelinesauer/FORMATO_POST.md
@@ -25,7 +25,7 @@ Cada post é uma pasta `posts/AAAA-MM-<slug>/` com um `post.json`. O renderizado
 
 ```jsonc
 {
-  "fundo": { "tipo": "quarto" },        // quarto | ceu | confete | explosao | lousa | papel | cor
+  "fundo": { "tipo": "madeira" },       // madeira | quarto | ceu | confete | explosao | lousa | papel | cor
                                          // extras: "cor": "#hex", "cores": [...] (confete/ceu), "centro_livre": false (confete)
   "imagem": "imagens/fundo.jpg",         // opcional: substitui o fundo. Use "_imagem" para deixar desativado
   "imagem_posicao": "50% 30%",           // enquadramento (object-position)
@@ -42,6 +42,9 @@ Cada post é uma pasta `posts/AAAA-MM-<slug>/` com um `post.json`. O renderizado
   "stickers": [ { "emoji": "🧸", "x": 14, "y": 8, "tamanho": 140, "giro": -10 } ]
 }
 ```
+
+### Cores
+Em `cor`, `fundo`, `destaque`, `fundo.cor` e `fundo.cores` use os nomes da paleta de `marca.json` (`salvia`, `rose-escuro`, `cacau`…) ou hexadecimal.
 
 ### Texto
 - `**negrito**` · `*destaque colorido*` · `\n` quebra de linha.

diff --git a/conteudo/README.md b/conteudo/README.md
@@ -1,6 +1,6 @@
 # Conteúdo de Instagram
 
-Agente de criação de posts para clientes de Instagram. Primeiro cliente: **@psicojaquelinesauer** (psicologia infantil).
+Agente de criação de posts para clientes de Instagram. Primeiro cliente: **@psicojaquelinesauer** (conteúdo educativo: psicologia infantil, TCC e autismo).
 
 ## Como usar
 
